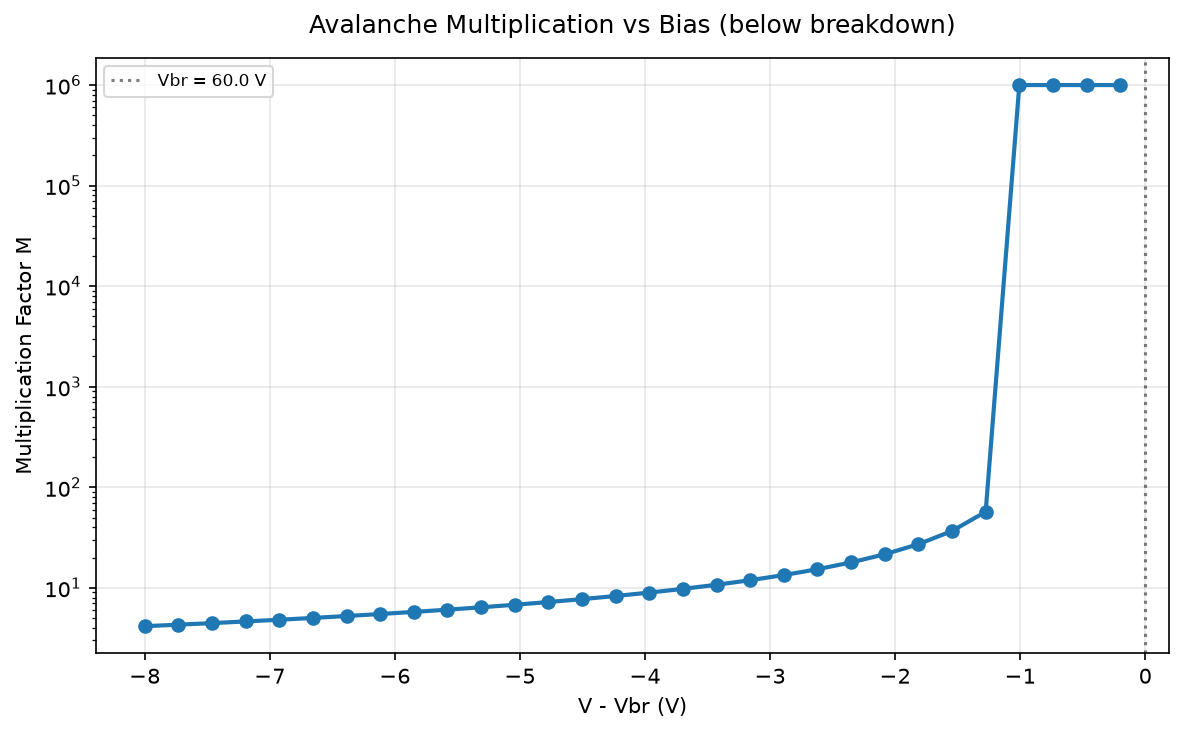
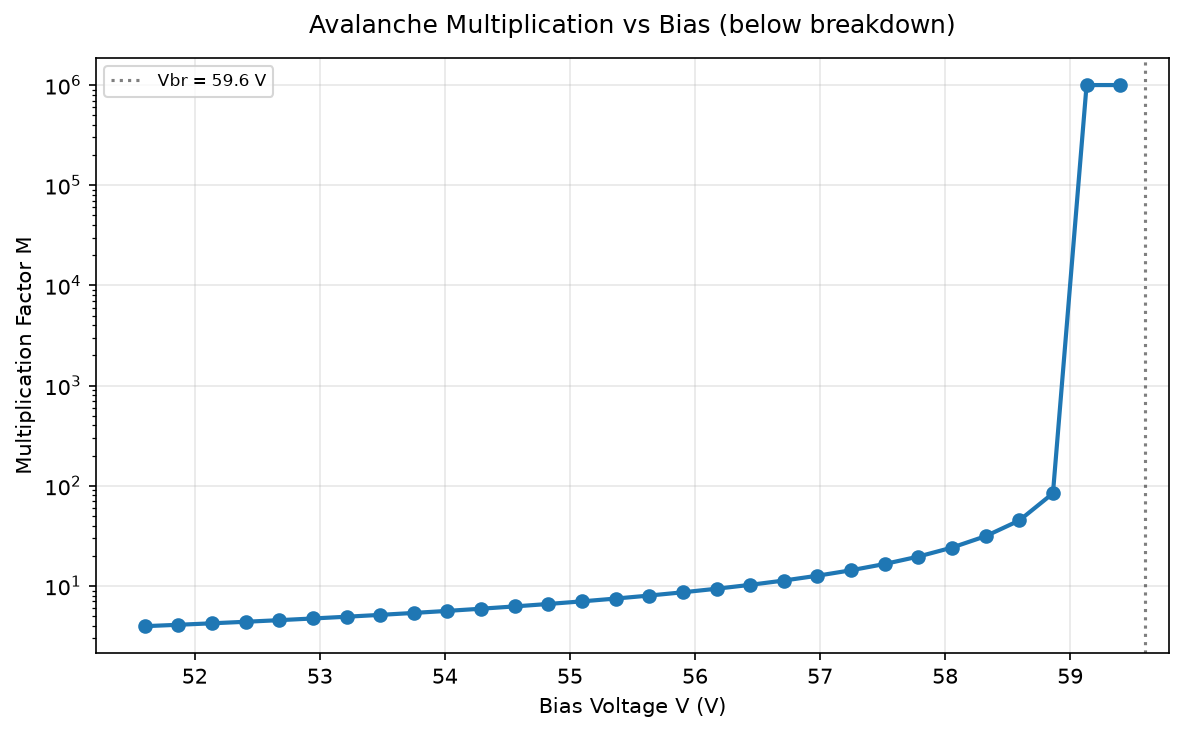
multiplication vs bias: use V (not V-Vbr) on x-axis

diff --git a/src/studies/ionization.py b/src/studies/ionization.py
@@ -83,22 +83,21 @@ def run_multiplication_vs_vex(sim: SPADSimulator, Vbr: float,
         return
     # Sweep below breakdown: M diverges as V → Vbr⁻
     delta_range = np.linspace(0.2, 8, 30)
-    Vex_arr = -delta_range  # negative excess voltage = below breakdown
+    V_arr = Vbr - delta_range  # bias voltage (below breakdown)
     M_vals = []
 
-    for delta in delta_range:
-        Vb = Vbr - delta
+    for Vb in V_arr:
         try:
             _, E, _, _, _, _ = sim.get_fields(float(Vb))
             M = sim._compute_multiplication(E)
             M_vals.append(M)
         except Exception as e:
-            log.info(f"  Vbr-{delta:.1f}V failed: {e}")
+            log.info(f"  V={Vb:.1f}V failed: {e}")
             M_vals.append(np.nan)
 
     M_arr = np.array(M_vals)
     mask = np.isfinite(M_arr) & (M_arr > 0)
     if np.any(mask):
         get_plotter("multiplication_vs_vex", plot_dir=PLOT_DIR).plot(
-            Vex_arr[mask], M_arr[mask], Vbr=Vbr)
+            V_arr[mask], M_arr[mask], Vbr=Vbr)
         log.info(f"  M: {np.nanmin(M_arr[mask]):.1f} - {np.nanmax(M_arr[mask]):.1f}")

diff --git a/src/utils/plotter/avalanche.py b/src/utils/plotter/avalanche.py
@@ -288,15 +288,15 @@ class MultiplicationVsExcessBiasPlotter(BasePlotter):
     def name(self) -> str:
         return "multiplication_vs_vex"
 
-    def plot(self, Vex_arr: np.ndarray, M_arr: np.ndarray,
+    def plot(self, V_arr: np.ndarray, M_arr: np.ndarray,
              Vbr: float | None = None) -> None:
         plt = self._import()
         fig, ax = plt.subplots(figsize=(8, 5))
         mask = np.isfinite(M_arr) & (M_arr > 0)
-        ax.semilogy(Vex_arr[mask], M_arr[mask], "o-", lw=2, color="#1f77b4")
+        ax.semilogy(V_arr[mask], M_arr[mask], "o-", lw=2, color="#1f77b4")
         if Vbr is not None:
-            ax.axvline(x=0, color="k", ls=":", alpha=0.5, label=f"Vbr = {Vbr:.1f} V")
-        ax.set_xlabel("V - Vbr (V)")
+            ax.axvline(x=Vbr, color="k", ls=":", alpha=0.5, label=f"Vbr = {Vbr:.1f} V")
+        ax.set_xlabel("Bias Voltage V (V)")
         ax.set_ylabel("Multiplication Factor M")
         ax.set_title("Avalanche Multiplication vs Bias (below breakdown)", fontsize=12, pad=12)
         ax.legend(fontsize=8)